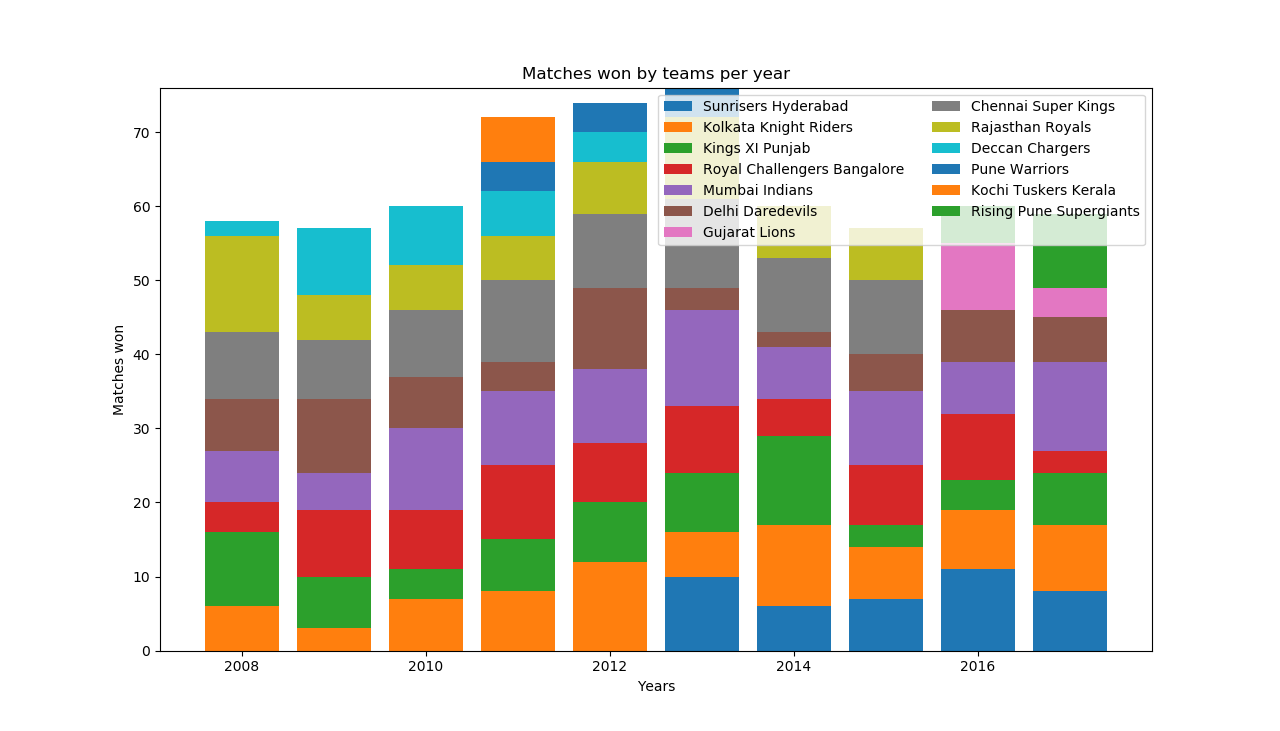
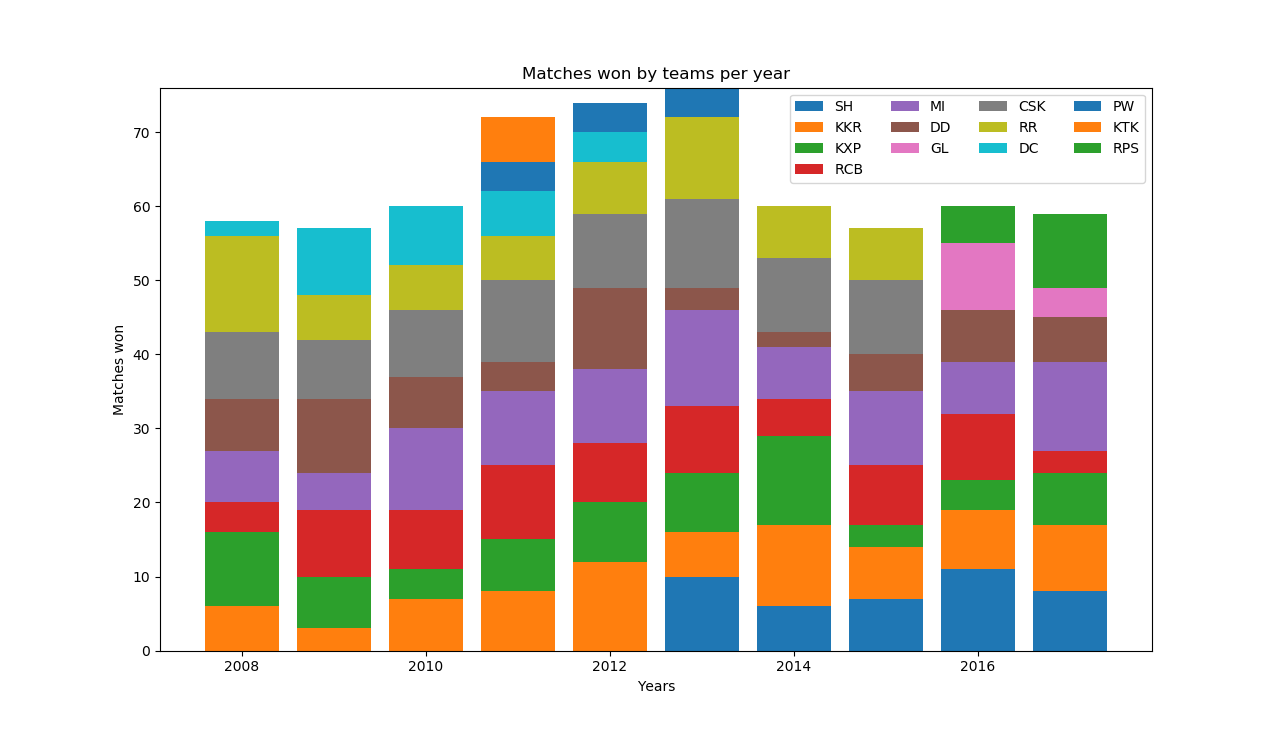
complete extra runs conceded per team in 2016

Changed region(s): [[0.5, 0.1204, 0.9062, 0.3611]]

diff --git a/extra_runs_conceded_per_team_2016.py b/extra_runs_conceded_per_team_2016.py
@@ -1,0 +1,50 @@
+import matplotlib.pyplot as plt
+
+
+def start_and_end_match_id(matches):
+    start_id = 0
+    live_id = 0
+    for each in matches:
+        if each['season'] != '2016':
+            start_id += 1
+        else:
+            live_id += 1
+
+    return start_id + 1, start_id + live_id
+
+
+def extra_runs_conceded_per_team(deliveries, start_id, end_id):
+    teams_with_extras = {}
+    for each in deliveries:
+        if int(each['match_id']) >= start_id and int(each['match_id']) <= end_id:
+            if each['bowling_team'] not in teams_with_extras:
+                teams_with_extras[each['bowling_team']] = int(
+                    each['extra_runs'])
+            else:
+                teams_with_extras[each['bowling_team']
+                                  ] += int(each['extra_runs'])
+    return teams_with_extras
+
+
+def plot_extra_runs_conceded_per_team(teams_with_extras):
+    teams = list(teams_with_extras.keys())
+    shortened_teams = []
+    for ele in teams:
+        shortened_each = [x[0] for x in ele.split()]
+        shortened_teams.append("".join(shortened_each))
+
+    runs = list(teams_with_extras.values())
+
+    plt.barh(shortened_teams, runs, color="#6c3376",
+             edgecolor="#409240", linewidth=1)
+    plt.xlabel('Extra runs conceded by Teams')
+    plt.ylabel('Teams')
+    plt.title('Extra runs conceded per team in 2016')
+    plt.show()
+
+
+def compute_and_plot_extra_runs_conceded_per_team(matches, deliveries):
+    start_id, end_id = start_and_end_match_id(matches)
+    teams_with_extras = extra_runs_conceded_per_team(
+        deliveries, start_id, end_id)
+    plot_extra_runs_conceded_per_team(teams_with_extras)

diff --git a/matches_won_by_teams_per_year.py b/matches_won_by_teams_per_year.py
@@ -50,7 +50,12 @@ def plot_matches_won_by_team_per_year(mwbtpy, years):
             bottom_li[i] += y[i]
         teams.append(team)
 
-    plt.legend(teams, ncol=2, loc='upper right')
+    shortened_teams = []
+    for ele in teams:
+        shortened_each = [x[0] for x in ele.split()]
+        shortened_teams.append("".join(shortened_each))
+
+    plt.legend(shortened_teams, ncol=4, loc='upper right')
     plt.xlabel('Years')
     plt.ylabel('Matches won')
     plt.title('Matches won by teams per year')

diff --git a/main.py b/main.py
@@ -1,6 +1,7 @@
 import csv
 from matches_played_per_year import *
 from matches_won_by_teams_per_year import *
+from extra_runs_conceded_per_team_2016 import *
 
 
 def read_matches():
@@ -22,6 +23,7 @@ def main():
     deliveries = read_deliveries()
     compute_and_plot_matches_played_per_year(matches)
     compute_and_plot_matches_won_by_teams_per_year(matches)
+    compute_and_plot_extra_runs_conceded_per_team(matches, deliveries)
 
 
 if __name__ == "__main__":
